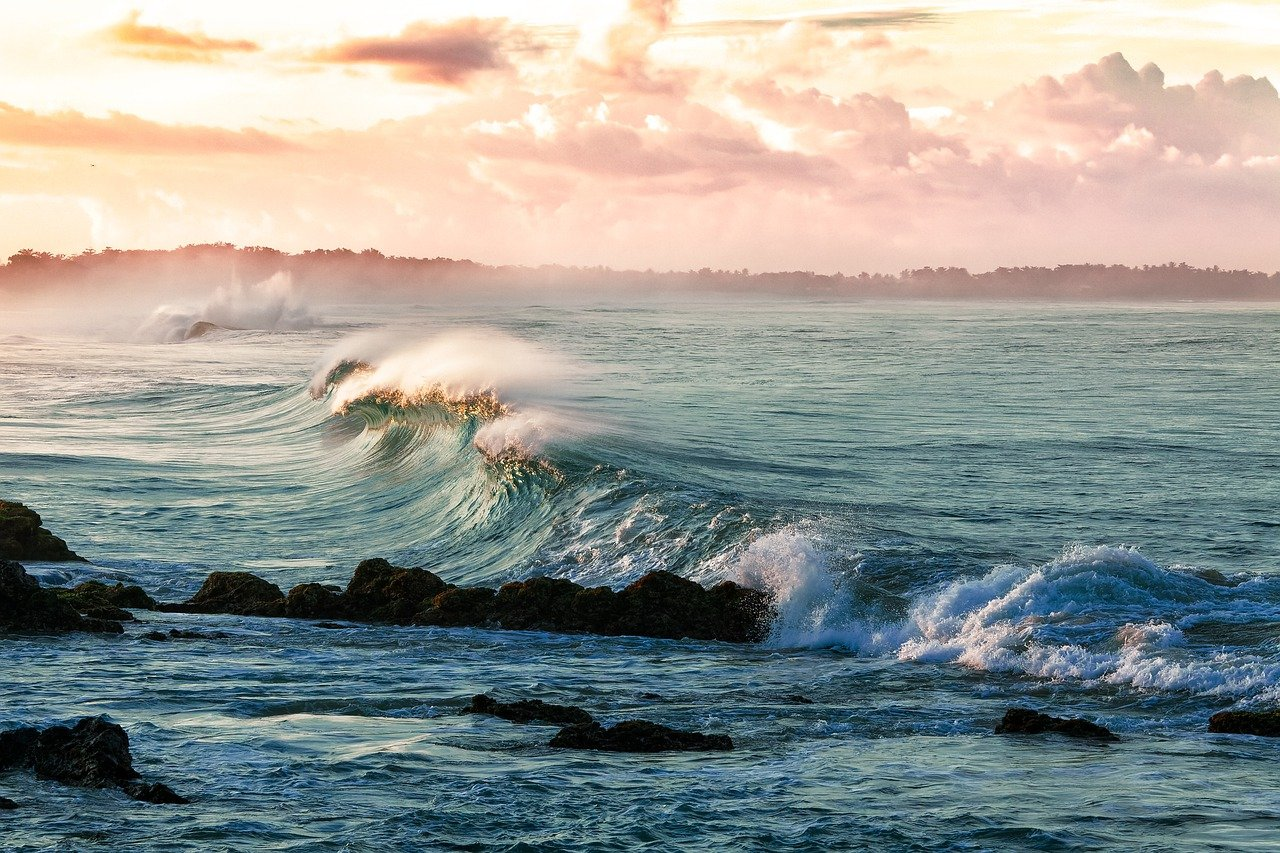
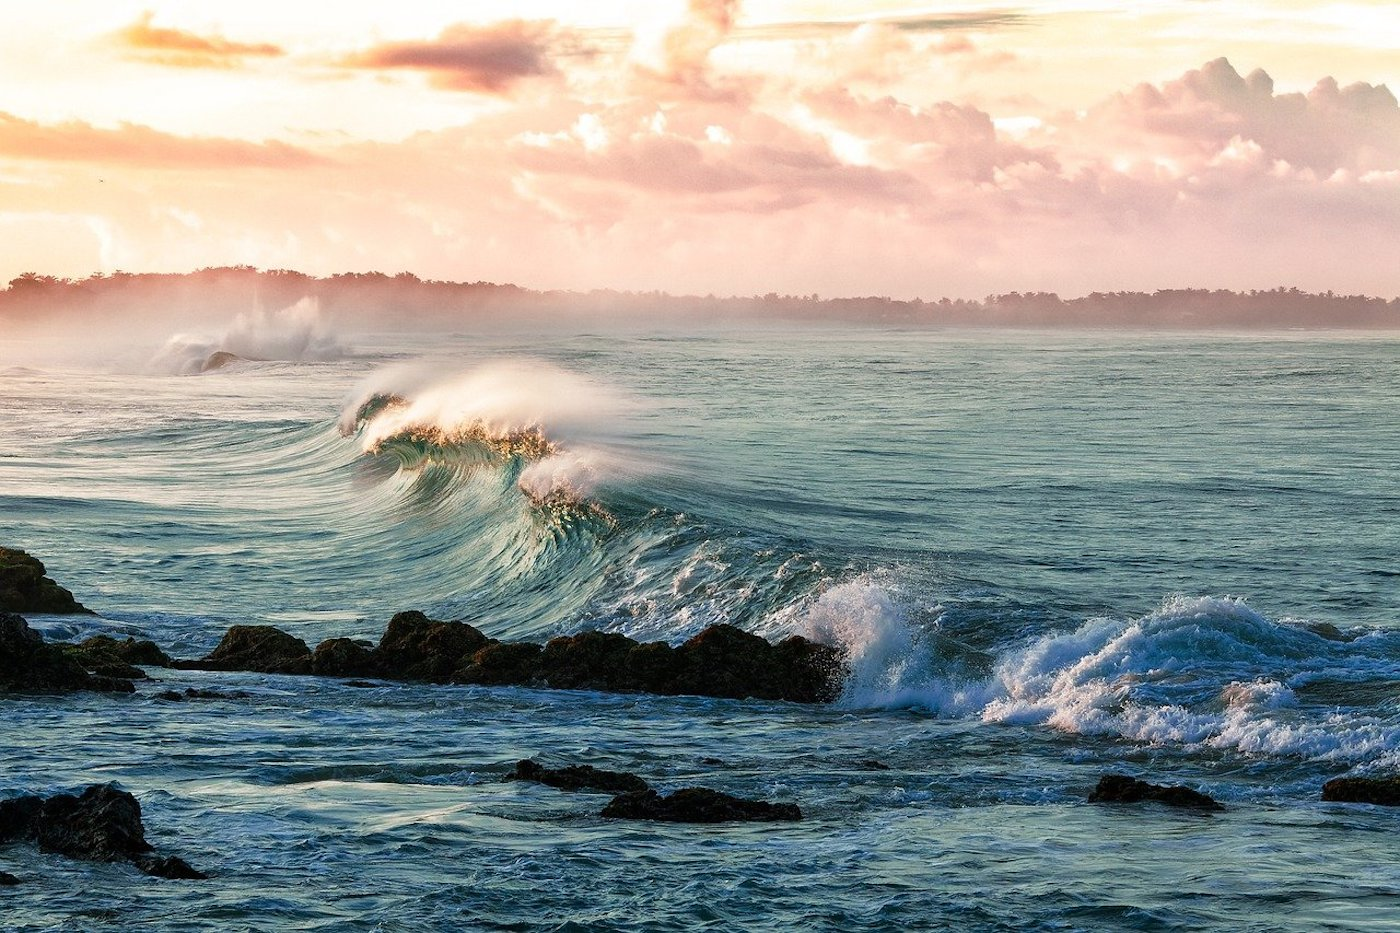
repeating background

diff --git a/app/assets/stylesheets/home_page.css b/app/assets/stylesheets/home_page.css
@@ -1,14 +1,14 @@
 .background {
-  /* background-color: #f9fafb; */
-  /* background-color: red; */
+  background-image: url('fun.png');
+  min-height: 800px
+  /* background: rgb(126,12,12);
+  background: linear-gradient(90deg, rgba(126,12,12,1) 0%, rgba(255,219,219,1) 72%); */
+}
 
+.landing_page_background {
   min-height: 100vh;
-  /* margin: 0; */
-  /* margin-top: 20px; */
-  /* margin-bottom: 20px; */
-  /* background-image: url('../../images/sea_bg.jpg'); */
   background-image: url('sea_bg.jpg');
-
+  max-width: 1400px;
 }
 
 .landing_page_logo{
